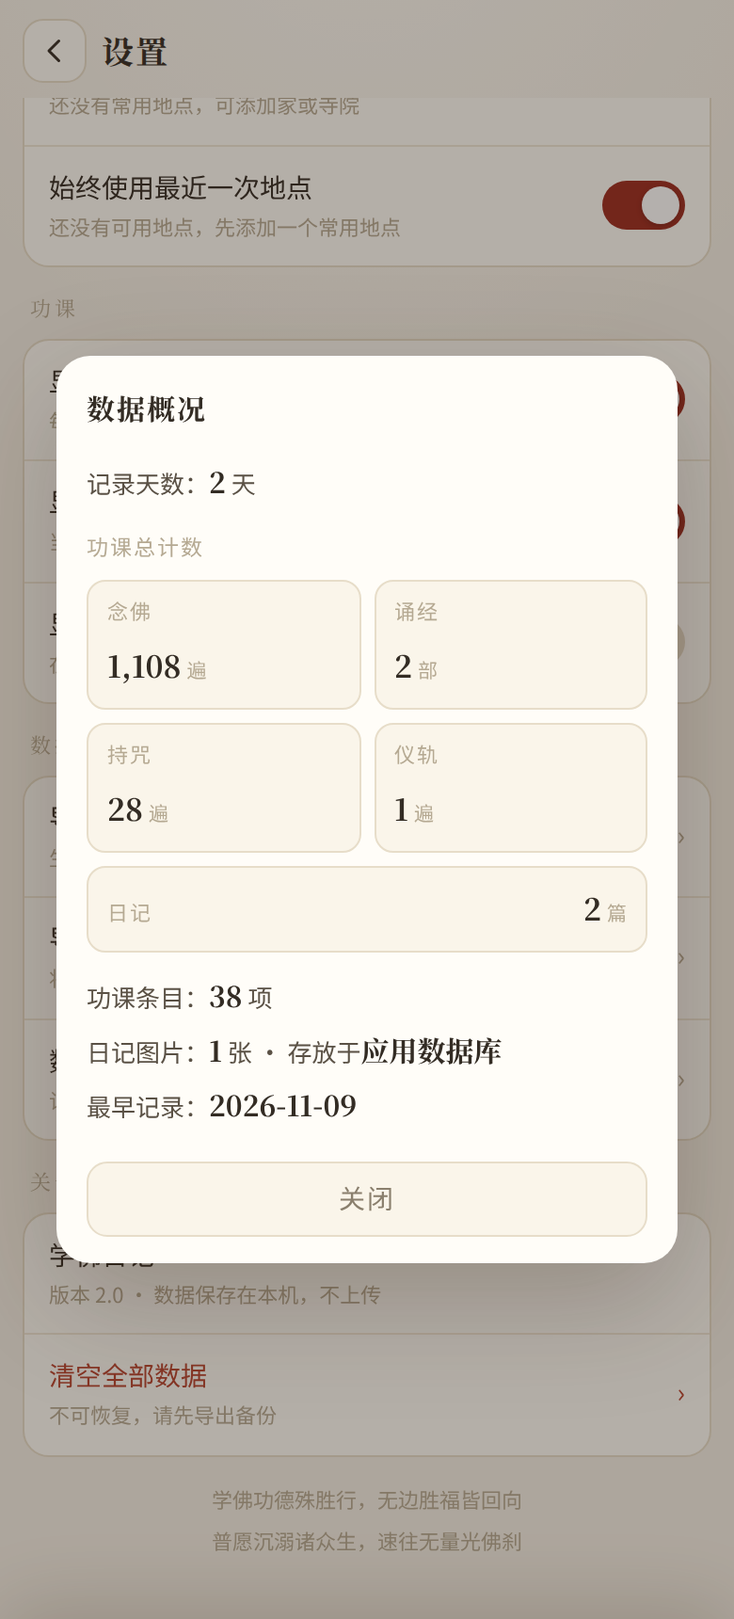
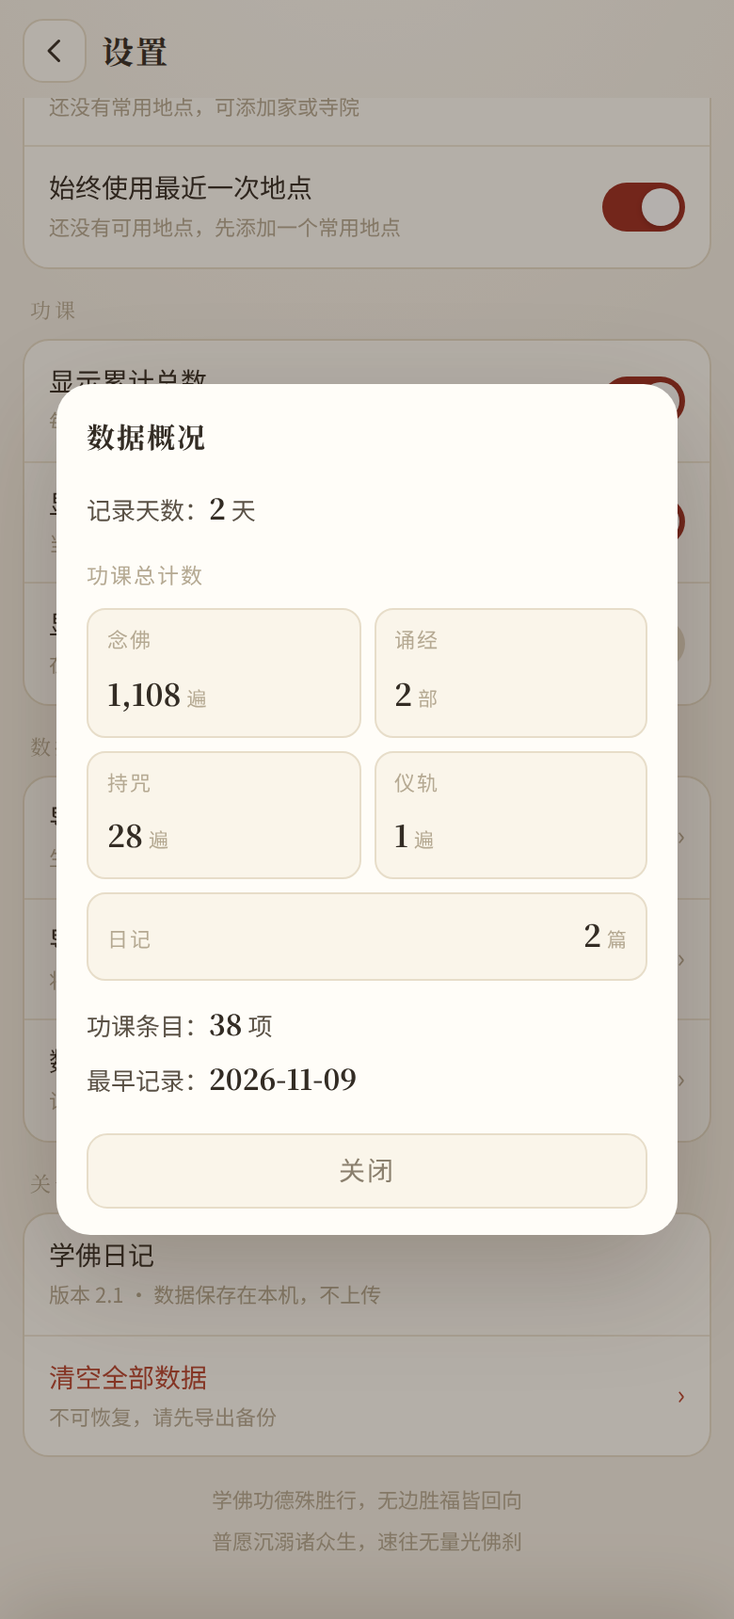
文档收尾：README 按 2.1 现状重写、新建 CHANGELOG、sw 缓存升到 v25 并加发布提示
- README 修正图例顺序、功课红点、日记占位等自相矛盾处，删除定位/反查地名说明
- README 补充：网页已零网络请求、零定位读取；但 2.0 APK 仍声明 INTERNET 与位置权限，需重新打包才能移除
- README 新增「发布检查清单」与 APK 签名前提说明
- 新建 CHANGELOG.md，把 1.14–1.22 历史变更从 README 移出
- sw.js 顶部加醒目提示：每次发布 index.html 必须递增 CACHE；CACHE 升到 v25
- 更新截图

diff --git a/sw.js b/sw.js
@@ -1,5 +1,8 @@
-/* 学佛日记 · 离线缓存 */
-var CACHE = 'xuefo-diary-v24';
+/* 学佛日记 · 离线缓存
+   ⚠ 发布须知：每次发布新的 index.html，必须把下面 CACHE 的版本号 +1
+   （例如 v25 → v26），否则老用户会一直读到缓存里的旧页面。
+   发布检查清单见 README 的「发布检查清单」一节。 */
+var CACHE = 'xuefo-diary-v25';
 var ASSETS = [
   './',
   './index.html',

diff --git a/README.md b/README.md
@@ -1,81 +1,80 @@
-# 学佛日记
+# 学佛日记 2.1
 
 一部记录每日念佛、诵经、持咒、仪轨与修行日记的手机应用。单文件网页应用（PWA），针对安卓手机竖屏优化，可「添加到主屏幕」当作原生 App 使用，离线可用。
+
+> 本版（2.1）把日记改成纯文本：不再支持插入图片与拍照；工具条改为「撤回 / 重做 / 无序列表 / 时间」。**应用已不再发出任何网络请求，也不读取定位。** 历史版本的改动见 [CHANGELOG.md](CHANGELOG.md)。
 
 ---
 
 ## 一、功能
 
 **首页**
-- 顶部为整月日历，同时显示公历与农历；**佛教节日以金色**、**二十四节气以绿色**标出（日期数字与名称同色），两者在日期下方各有一个小点
+- 顶部为整月日历，同时显示公历与农历。**佛教节日金色**、**斋日蓝色**、**传统节日黄色**、**二十四节气绿色**、**当天有功课红色**；日期下方的小点自上而下排列，顺序与图例一致
 - 月历标题里的**年份**与**月份**都可点开：年份给出前后各 12 年共 24 个，月份给出 12 个，点一下直接跳过去，不用逐月翻
-- **当天有做功课**：日期数字**右上角一个金色小点**；**佛教节日、斋日、节气、重要日**的小点则排在日期**正下方**一行，自左至右按这个次序排列，与图例一致
-- 标记颜色一眼可辨：**佛教节日 金**、**斋日 蓝**、**节气 绿**、**功课 金**、**重要日 红**；图例也按「佛教节日 → 斋日 → 节气 → 功课 → 重要日」的顺序排列
-- 斋日可在设置里单选一种显示：**不显示** / **朔望**（初一、十五）/ **六斋日** / **十斋日**，三种均为蓝色小点；小月无三十时，六斋以廿八、廿九补足，十斋再加廿七
+- 斋日可在设置里单选一种显示：**不显示** / **朔望**（初一、十五）/ **六斋日** / **十斋日**，均为蓝色小点；小月无三十时，六斋以廿八、廿九补足，十斋再加廿七
+- 另有**月斋（三长斋月）**独立开关：农历**正月、五月、九月整月持斋**，与上面单选的斋日**可叠加显示**（同一天会并排两个蓝点、日期条并排两个标签），默认关闭
 - 支持**自定义农历 / 公历的重要日**（生日、纪念日等），日历上以红点与红色名称标出，日期条显示红色标签
-- 选中日期下方的日信息分**三行**：第一行「佛历年份 · 公历年月日 · 昨天／今天／明天」，第二行「农历月日 · 星期」，第三行是当天的标签（佛教节日、斋日、传统节日、节气、重要日）
-- 当天的公历日期显示为**金色**，提醒这一天正是今天；其他日期为墨色，背景与平日一致
+- 选中日期下方的日信息分**三行**：第一行「佛历年份 · 公历年月日」，第二行「农历月日 · 星期 · 昨天／今天／明天」，第三行是当天的标签（佛教节日、斋日、传统节日、节气、重要日）
+- 当天的公历日期与「今天」二字都是**金色**；其他日期为墨色
 - 日期信息条左右两侧各有一个 `‹` `›` 箭头：点按即切换到前一天／后一天，与在日信息区左右滑动等效
-- 功课分为 **念佛 · 诵经 · 持咒 · 仪轨 · 日记** 五个标签页，内容可自行增删改
-- 每项功课提供 `+1` `+10` `+100` `+1000` `+` 五个按钮：末位 `+` 按该项的默认增量增加（默认：念佛持咒 100，诵经仪轨 1）；不再单设减号，减少统一走「长按 +」
-- 长按 `+` 弹出「调整当日数量」：可在**减少／增加／设为**之间切换——前两者填多少就加减多少（减到 0 为止，不会出现负数），**设为**则是直接把当天数量改成输入值（填 0 即清零）；长按 `+10` `+100` `+1000` 则是持续连加
+- **不在今天时**，第一行公历日期后会多出一个小按钮「回到今天」：在首页点它回到今天的记录页，在功课详情页点它则停在这项功课、切到今天的详情；点按钮不会误触日期选择器
+- 功课分为 **念佛 · 诵经 · 持咒 · 仪轨 · 日记** 五个标签页，内容可自行增删改。切到非当天时，标签页的文字与下划线仍用功课红，「＋」与 `+1` 等按钮改为米白
+- 每项功课提供 `+1` `+10` `+100` `+1000` `+` 五个按钮：末位 `+` 按该项的默认增量增加（默认：念佛持咒 100，诵经仪轨 1）；不单设减号，减少统一走「长按 +」
+- 长按 `+` 弹出「调整当日数量」：可在**减少／增加／设为**之间切换——前两者填多少就加减多少（减到 0 为止，不会出现负数），**设为**是直接把当天数量改成输入值（填 0 即清零）；长按 `+10` `+100` `+1000` 则是持续连加
 - 点击计数数字可直接手动输入当天数量
-- **点整张功课卡片**（名称、累计、目标条、空白处都算）即可进入该功课详情；只有 `+1` 等加减按钮与计数数字例外，它们照旧是计数操作
+- **只有卡片上半部分能点进详情**：标题、标题下的「本月 / 累计」、日目标进度条；点加减按钮、计数数字、卡片下半部分的空白都不会误跳
 - 「显示当月累计」与「显示累计总数」都默认开启：每项功课在今日数字下方显示一行「本月 N　共 M」，**当月合计在左、累计总数在右**，随加减实时更新；两项都可在设置里单独关掉
-- 前四个标签页的内容区顶部可选显示**当日计数明细**，一行列出今天记过的每一项，如「今日 南无阿弥陀佛×100；南无地藏王菩萨×1000。」，加减后即时刷新；默认关闭，可在设置里打开
-- 向下滚动时，**日期信息与五个标签页一起固定在顶部**（月历滚走），随时知道在看哪一天、可以随时换标签
-- 任意功课可在「功课设置」中填写**每日目标**（可选）：卡片上随即显示一条细进度条与「已完成 / 目标」，达成后数字与进度条转为金色
+- 前四个标签页的内容区顶部可选显示**当日计数明细**，一行列出今天记过的每一项，如「今日 南无阿弥陀佛×100；南无地藏王菩萨×1000。」；默认关闭，可在设置里打开
+- 向下滚动时，**日期信息与五个标签页一起固定在顶部**（月历滚走）
+- 任意功课可在「功课设置」中填写**每日目标**（可选）：卡片上显示一条细进度条与「已完成 / 目标」，达成后数字与进度条转为金色
 - 首页分三个区域，左右滑动各司其职：
   - **月历区**：右拖上一月，左拖下一月（不改选中日期）
   - **日信息区**：右拖前一天，左拖后一天
   - **内容区**：在五个标签页间左右切换；汇总视图下不响应左右滑动
-- 点日期即选中该日；点日期信息区域可调出系统日期选择器（不再显示提示文字）
+- 点日期即选中该日；点日期信息区域可调出系统日期选择器
+- **未来的日期只能看，不能记**：选到明天或更晚，加减按钮与「＋」全部置灰，点计数也不会弹窗；数据层同样会拒绝写入并提示「未来的日期还不能记录功课」。日历照常可以翻到未来查看节日与农历
 
 **详情页**
 - 点功课名称进入，自上而下三段：**日信息**（公历、星期、农历、佛历与当天标签）→ **当日计数与操作按钮** → **按日／按月／按年统计**
-- 计数区在今日数字下方并排显示**本月合计**与**累计总数**（本月在左、累计在右，如「本月 123 遍　累计 1234 遍」），随手加减时两者同步更新；在设置里关掉「显示当月累计」后只剩累计
+- 计数区显示**今日数 → 日进度条（右侧 n / 目标）→ 本月合计（左）／累计与总目标（右）**
+- 今日数字可点，直接改这一天的数量
 - 计数区上排是一个整行大按钮 `+1`，下排依次为 `+10` `+100` `+1000` `+`（`+` 按默认增量，长按弹窗可增减或直接设定当天总量；长按 `+10` 以上则连加）
 - 详情页的日信息卡片同样在左右两侧带 `‹` `›` 箭头，点按切换前后日
-- 三种统计表格：**按日**（一周 7 列的整月表格）／**按月**（12 个月的表格）／**按年**（最近 6 年，3 列 2 行）
-- 每格显示当日／当月／当年的累计数，底色按数量分三档加深；当前日期（月份、年份）带描边
-- 顶部显示合计、记录天数（月数、年数）、日均、最高值
-- 若该项设了每日目标：统计行显示「目标 X · 达标 N 天」，达标格的数字旁标一个金色 ✓
-- 点日期回到该日记录；点月份看该月每日；点年份看该年各月；按年视图可用 `‹` `›` 整屏翻 6 年
-- 详情页左右拖动：在**统计区**滑动切换 按日／按月／按年，在**日信息或计数区**滑动切换前后日的功课详情
+- 三种统计表格：**按日**（一周 7 列的整月表格）／**按月**（12 个月的表格）／**按年**（最近 6 年，3 列 2 行）；每格显示当日／当月／当年的累计数，底色按数量分三档加深
+- 顶部显示合计、记录天数（月数、年数）、日均、最高值；设了每日目标时还显示「目标 X · 达标 N 天」
+- 详情页左右拖动：在**统计区**滑动切换按日／按月／按年，在**日信息或计数区**滑动切换前后日的功课详情
+- 右上角有编辑按钮，可改这项功课的名称、单位、增量、日目标与总目标
 
-**日记**
-- 顶部可**选填天气**：中央台预报会播报的类型都在，常见天气排在前面——晴、多云、阴、小雨、中雨、大雨、暴雨、大暴雨、特大暴雨、阵雨、雷阵雨、小雪、中雪、大雪、暴雪、雨夹雪、冻雨、冰雹、雾、霾、浮尘、扬沙、沙尘暴、强沙尘暴、大风、台风、霜冻（三列图标，一屏选完）；也可以**自己写**（如「梅雨」「大风沙」，最多 8 字）；旁边是**地点**
-- 地点有三条路：**常用地点**一键选（家、寺院、常去的道场）、**按省 / 市挑**（34 个省、近 500 个市，不必看经纬度）、**输入临时地点**（如「灵隐寺」）；用「当前位置」时会自动反查地名，坐标只存在后台，不会写成「31.23, 121.47」这样的数字
-- 常用地点每一行右侧有**铅笔按钮**，在日记里点一下就能改名、改省市、设为默认或删除，不必先跳到管理页
-- 选省市时可勾选「加入常用地点」，也可在已有临时地点时点「存为常用地点」；常用地点在「设置 → 常用地点」或地点面板里都能改名、改省市、删除
-- 可指定一个常用地点为**默认地点**：今天及以后新的一天的日记会自动填好，手动清除后当天不再自动补；旧日期的日记不会被改写
-- 地点面板会把**最近一次用过的地点**单独列在最上面（当天已改成临时地点时尤其好用），点一下即可换回
-- 设置里「始终使用最近一次地点」**默认开启**：写新一天的日记时，地点自动填上次用过的那个；关掉后改用默认地点
-- 工具条为四个图标：序号、圆点、图片、**插入时间**（段落直接回车即可，不再单设按钮）
-- 图片按钮**轻点**从相册多选，**长按**调系统相机拍照（安卓 10 及以上拍完的照片同时留在相册，低版本只存进日记）
-- 空白段落提示「记下所见、所闻、所思、所想…」，一天里的见闻、思绪都可以写进来
-- 点时钟图标即新起一条带 `[21:09]` 时间戳的记录，可把一天里的事逐条记下；连点只刷新时间，不会叠加
-- 支持普通段落、自动编号的有序列表、无序号圆点列表、图片
-- 图片压缩后以 dataURL 文本存入 IndexedDB（不再用 Blob 与 `blob:` 地址，避免个别内核显示空白）；若某些机型上浏览器无法重新编码图片，则保留原图，绝不会存成空白图
-- 如果设备上的 IndexedDB 不能用、或写入的数据下次启动读不到（部分鸿蒙兼容层会清掉），会自动降级为**把图片直接内嵌进日记记录**，与文字一起保存，重启后照样显示；此时插图改用更小的压缩尺寸，为文字留出空间
-- 删除图片有三种方式：点图片**右上角的 ×**；点一下图片打开大图，再点**「删除这张图片」**；光标停在图片后的段落开头按**退格**（或选中图片按删除键）
-- 回车换行自动拆分块，退格可合并回上一块
+**日记（纯文本）**
+- 顶部可**选填天气**：常见天气排在前面，三列图标一屏选完，也可以自己写（如「梅雨」，最多 8 字）；旁边是**地点**
+- 地点有三条路：**常用地点**一键选、**按省 / 市挑**、**输入临时地点**。**应用不读取定位、也不联网反查地名**
+- 常用地点每一行右侧有铅笔按钮，可直接改名、改省市、设为默认或删除
+- 可指定一个常用地点为**默认地点**，设置里「始终使用最近一次地点」默认开启
+- **自动填地点只在必要时发生**：切到日记页不会凭空填；只有**当天**、且你**真的点进了日记正文**之后，才补上「最近一次地点」或「默认地点」。切到昨天／明天写日记不会自动填；手动清除地点后，当天也不再自动补
+- 工具条从左到右四个按钮：**撤回 · 重做 · 无序列表 · 时间**
+  - **撤回 / 重做**：按内容快照回退，一次连续输入算一步（停手 0.4 秒记一步），最多 50 步；插入时间、圆点、换行拆分、退格合并都可撤回；切换日期后历史清空（内容本身不受影响）
+  - **无序列表**：在光标所在行的行首插入「• 」（圆点 + 半角空格），再点一次则移除。圆点是**文本字符**，整段选中复制时会一起带走，粘到别处仍是列表
+  - **时间**：新起一条带 `[21:09]` 时间戳的记录，连点只刷新时间，不会叠加
+- 日记只保存文字：不再有插图、拍照，也没有图片相关的按钮与占位。旧版本留下的图片块不会再显示，导出备份时也不会带上
+- 回车换行自动拆分块，退格可合并回上一块；粘贴一律按纯文本插入，不会带进网页格式
+- 空段落不再显示「记下所见、所闻、所思、所想」之类的提示文字
 
 **汇总视图**
 - 首页右上第一个按钮切换：记录视图 ⇄ 汇总视图
-- 上半部分与记录视图完全一致：整月日历与日期条始终保留，只有下半部分的内容区在「五个标签页」与「按日滚动的汇总」之间切换
-- 汇总内容顶部显示**连续功课天数**（仅前四类功课有计数才算，只有日记不算；今天还没记时由昨天起算，不会提前断签），并附累计天数与起始日期
-- 汇总按日期由近及远排列，每张卡片头部附当天天气与地点，上方面板显示当天有计数的功课（如「南无阿弥陀佛×108；心经×1。」，最多 4 行），下方面板显示当天日记（最多 3 行，时间戳一并保留）
+- 上半部分与记录视图完全一致：整月日历与日期条始终保留，只有下半部分在「五个标签页」与「按日滚动的汇总」之间切换
+- 汇总内容顶部显示**连续功课天数**（仅前四类功课有计数才算），并附累计天数与起始日期
+- 汇总按日期由近及远排列；每张卡片头部附当天地点与天气（可在设置里一键隐藏），上方面板显示当天有计数的功课，下方面板显示当天日记（最多 3 行）
 - 在汇总视图里拖动日历翻月，会自动滚到该月最近的一条记录
 - 点卡片即切回五个标签页的模式并跳到那一天；点「功课」面板落在有记录的那一类，点「日记」面板落在日记页
 
 **其他**
 - 右上菜单：功课设置、佛教节日一览、传统节日一览、我的重要日、回到今天、设置
-- 节日一览分「佛教节日／传统节日」两个分段，可翻年查看；传统节日含春节、元宵、龙抬头、上巳、端午、七夕、中元、中秋、重阳、寒衣、下元、腊八、小年与除夕
-- 功课设置支持增删改、上下排序、恢复内置功课
+- 节日一览分「佛教节日／传统节日」两个分段，可翻年查看
+- 功课设置支持增删改、**置顶**、上移、下移、恢复内置功课；置顶只在本分类内生效
 - 我的重要日：添加／编辑／删除自定义重要日，可选农历或公历，列表按最近到来排序并显示还有多少天
-- 设置项：佛历基准（+543／+544）、斋日显示（不显示／朔望／六斋／十斋）、佛教节日显示、传统节日显示、节气显示、我的重要日、常用地点、始终使用最近一次地点（默认开启）、显示累计总数（默认开启）、显示当月累计（默认开启）、显示当日计数明细（默认关闭）
-- 数据导出／导入（JSON，含图片）、数据概况、清空数据；数据概况里「功课总计数」按 **念佛 / 诵经 / 持咒 / 仪轨 / 日记** 五类分别列出总数（念佛、持咒以遍计，诵经以部计，仪轨以遍计，日记以篇计），另附记录天数、功课条目、图片张数与最早记录
+- 设置项：佛历基准（+543／+544）、斋日显示、月斋（三长斋月）、佛教节日 / 传统节日 / 节气显示、总览是否显示地点与天气、我的重要日、常用地点、始终使用最近一次地点、显示累计总数、显示当月累计、显示当日计数明细
+- 数据导出／导入（JSON，纯文本）、数据概况、清空数据
+- 数据概况里「功课总计数」按 **念佛 / 诵经 / 持咒 / 仪轨 / 日记** 五类分别统计（念佛、持咒以遍计，诵经以部计，仪轨以遍计，日记以篇计），另附记录天数、功课条目与最早记录
 - 设置页底部为回向偈：「学佛功德殊胜行，无边胜福皆回向／普愿沉溺诸众生，速往无量光佛刹」
 
 ## 二、内置功课
@@ -87,25 +86,7 @@
 | 持咒 | 楞严咒、大悲咒、六字大明咒、准提咒、文殊菩萨心咒、往生咒、金刚萨埵百字明、绿度母心咒、药师灌顶真言、大白伞盖佛母心咒 |
 | 仪轨 | 八十八佛大忏悔文、地藏菩萨占察忏、放生（次）、施食（次） |
 
-1.15 起「文殊师利菩萨心咒」更名为「文殊菩萨心咒」，升级时自动改名，已记的数量不受影响。
-
-1.16 新增：常用地点（可设为默认，日记里一键选择，也能按省 / 市挑选或输入临时地点）与四个功课标签的当日合计。
-
-2.0 调整：① 主页面切到非当天时，五个标签页的文字与下划线仍用功课红（1.20 曾改成墨色，用起来不习惯，改回来），「＋」与「+1」按钮仍保持米白；② 设置页「数据概况」的「功课总计数」拆成念佛、诵经、持咒、仪轨、日记五类分别统计，带千分位；③ 设置页底部回向偈换成「学佛功德殊胜行，无边胜福皆回向／普愿沉溺诸众生，速往无量光佛刹」。旧数据不需要做任何处理。
-
-1.22 调整：① 主页面功课项里，日进度条移到「本月 …／总计 …」上面；② 功课详情页的今日遍数可点，点了就能像列表项一样直接改这一天的数量；③ 详情页计数卡改为「今日数 → 日进度条（右侧 n / 目标）→ 本月（左）／累计 / 总目标（右）」，去掉了单独的总目标进度条；④ 主页面、详情页、总览里当天的公历年月日改回金色，日信息里的「今天」也始终金色。旧数据不需要做任何处理。
-
-1.21 调整：① 总览模式下当天没写日记就不显示日记区，不再留「这天没有写日记」；② 功课详情页顶部日信息在当天时，公历年月日也用工课红；③ 统一高亮规则：主页面月历、详情页的日表、月表、年表统一为「今天 = 金底金框，选中 = 功课红实底白字」；④ 详情页统计分段改为「按年 / 按月 / 按日」从左到右，默认仍选中「按日」；⑤ 配色统一：日目标进度条一律功课红（达标为深红），总目标进度条为金色，非当天时「＋」与「+1」改为中性米白描边（不再用土棕），总览卡片当天日期改回功课红；⑥ 详情页周期回跳按钮「今」改为写明「本月 / 今年 / 近年」，节日一览同步改为「今年」；⑦ 日记正文去掉「记下所见、所闻、所思、所想」提示；⑧ 功课详情页右上角新增编辑按钮，弹窗可改名称 / 单位 / 增量 / 日目标 / 总目标，保存后就地刷新；⑨ 功课列表里日目标进度条移到「本月 / 总计」下方，本月靠左、总计靠右（不再用逗号连写）。旧数据不需要做任何处理。
-
-1.20 调整：① 主页面不在当天时，tab 选中色与「＋」按钮不再用功课红，改回墨色 / 米色；当天的公历日期由金色改为功课红；② 「昨/今/明天」只有「今天」用功课红，其余与农历、星期同色；③ 「佛历年」字号放大到与公历一致，并始终为金色；④ 功课标题字号加大（15→16.5px）；⑤ 功课详情页顶部日信息与首页完全一致，点一下可选日期，选完仍停在这项功课的详情页；⑥ 详情页统计区左右滑动改为「按日翻月 / 按月翻年 / 按年翻年段」，切换范围仍点上面的按日/按月/按年；⑦ 诵经新增「二十一尊度母礼赞经」（老档自动补入）；⑧ 功课可选填「总目标」，列表显示「总计 x / 总目标」，详情页有总目标进度条；⑨ 总览模式的地址移到天气左侧；⑩ 修复鸿蒙卓易通上长按图片按钮拍完照没有插入日记的问题：相机改为写入应用自己的文件（不再依赖相册 MediaStore 的 IS_PENDING），并兼容相机返回 RESULT_CANCELED、结果只放在 data 里等情况；万一拍照时页面被系统重建，回到应用会自动把刚拍的照片补进日记。旧数据不需要做任何处理。
-
-1.19 调整：① 日信息第一行改为靠左（佛历 + 公历），「昨/今/明天」移到第二行星期之后，第二行同样靠左；② 功课列表右侧的「本月」「总计」改为靠右对齐，中间用逗号分开；③ 功课详情页里点日期不再跳回首页，只把该页的日期切过去，方便补记过去某天这项功课；④ 详情页「+1」改为大按钮（随屏高 96–150px），配合长按连加，可直接当计数器 / 念珠用；⑤ 天气新增「晴转多云、多云转晴、中雨转小雨」等 32 种转换天气（共 59 种），选项区可上下滚动，标题与「自定义 / 不记录」常驻；⑥ 日记编辑面板左上角两个按钮顺序改为「位置」在左、「天气」在右；⑦ 过 24:00 或隔夜回到前台时，页面自动把「今天」推到新的一天（日历今天标记、日信息、汇总标签一起刷新），不再需要杀进程重开；⑧ 总览模式里当天的日期也改为金色；⑨ 总览模式功课区不再限制 4 行，日记缩略固定 3 行，图片用「[图片]」文字代替（连续图片合并一次）；⑩ 总览模式去掉「由近及远」四字。旧数据不需要做任何处理。
-
-1.18 调整：① 当天日信息恢复原底色，只把日期改为金色；② 天气补齐中央台会播报的 27 种（冰雹、沙尘暴、阵雨、暴雨、雨夹雪、冻雨、霾、浮尘、扬沙、台风、霜冻等，常见天气在前），改用图标网格选择；③ 地点面板增加「最近使用」，设置增加「始终使用最近一次地点」（默认开启）；④ 新增传统节日，显示顺序为佛教节日（金）、斋日（蓝）、传统节日（黄）、节气（绿）、重要日（红），日历与日信息一致；⑤ 首页与详情页日信息改为三行格式；⑥ 菜单可查看传统节日；⑦ 做了功课的日期改用红点；⑧ 日记提示改为「所见、所闻、所思、所想」；⑨ 长按图片按钮调系统相机。旧数据不需要做任何处理。
-
-1.17 调整：① 当天的日信息条改用暖色底，与其他日期一眼区分；② 持咒里「六字大明咒」提到「准提咒」前，仪轨里「放生」提到「施食」前（升级时自动换序一次，已记的数量不变）；③ 天气新增冰雹、沙尘暴，并可自定义；④ 四类功课的当日合计移到内容区顶部，改为「名称×数量；…。」的明细，默认关闭；⑤ 地点面板每一行可直接编辑，改名后已写下的日记同步换成新称呼。旧数据不需要做任何处理。
-
-升级到 1.14 后，新增的六项功课会自动追加到「念佛」「持咒」分类末尾；若删掉不想要的，不会在下次启动时自己回来，需要时可在「功课设置 → 恢复内置功课」手动补回。
+删掉的内置功课不会自己回来，需要时在「功课设置 → 恢复内置功课」手动补回。
 
 ## 三、在安卓手机上使用
 
@@ -118,31 +99,33 @@
 
 > 必须通过 http(s) 访问才能启用离线缓存与安装。直接双击 `index.html` 以 `file://` 打开也能使用全部功能，但无法安装和离线缓存。
 
-### 方式二：直接安装 APK（已打包好）
+### 方式二：直接安装 APK
 
 - 文件：`学佛日记-2.0.apk`，约 369 KB，支持 **Android 7.0 及以上**
+- ⚠ **这个 APK 内嵌的仍是 2.0 版页面**（还有图片功能），与当前仓库里的 `index.html`（2.1）不一致。本版只改网页，没有重新打包；要装到 2.1 需要先按下面的说明重新打包
 - 传到手机后点击安装，需允许「安装未知来源应用」；首次打开若提示风险，选择「仍要安装」即可
-- 内嵌的就是本目录这份 `index.html`，由 WebView 以 `https://appassets.local` 提供，因此 `localStorage` 与 IndexedDB 都能长期保存，重启应用数据不丢
+- 内嵌页面由 WebView 以 `https://appassets.local` 提供，`localStorage` 能长期保存，重启应用数据不丢
 - 返回键：在详情页、设置页等二级页面先退回上一层，回到首页再按一次才退出
-- 「导出备份」会直接把 JSON 写进手机「下载」目录（Android 10 及以上）；导入备份、日记插图会调起系统文件选择器
-- APK 申请了联网与位置权限：点「定位」时会弹出系统授权，同意后用 OpenStreetMap 反查地名；不授权也可手动填写地点
+- 「导出备份」会直接把 JSON 写进手机「下载」目录（Android 10 及以上）
 - APK 与浏览器版数据互不相通；卸载应用会一并清除数据，卸载前请先导出备份
-- 若从 1.9 及更早版本升级，早先在手机上添加的日记图片可能仍是空白（旧版在部分机型上把图导出成了白图）：删掉那张图重新添加即可，新版已修正
-- **鸿蒙（HarmonyOS NEXT）上的「卓易通」等安卓兼容环境**：1.13 起专门做了适配——图片不再依赖 Blob／`blob:` 地址，改为 dataURL 文本；选中的照片会先由外壳复制到应用缓存再交给网页；若该环境的 IndexedDB 存不住数据，会自动把图片内嵌进日记记录。**看日记图片不需要相册权限**（图片存在应用自己的数据里），只有在「点图片按钮挑照片」时才会调起系统选择器，那次选择本身就是一次性授权
 - 安装包为自签名（非应用商店分发），以后换新版本时直接覆盖安装即可，数据保留
 
-> 若要自己重新打包：可用 [PWABuilder](https://www.pwabuilder.com/)、Bubblewrap 或 Capacitor，把 `index.html`、`manifest.webmanifest`、`icons/` 作为静态资源即可。WebView 内 Service Worker 不生效属正常现象，不影响功能。
+**关于权限（如实说明）**：网页这一侧已经删掉了全部网络请求与定位调用，应用**实际行为上不联网、不读定位**；但现有 2.0 APK 的 `AndroidManifest.xml` 仍声明着 `INTERNET`、`ACCESS_FINE_LOCATION`、`ACCESS_COARSE_LOCATION` 与相册相关权限。这些声明要等补上外壳源码、重新打包才能删掉，**不能说成"权限已移除"**。
 
-## 四、数据说明
+**关于签名**：APK 里只有公钥证书 `META-INF/XUEFO.RSA`，签名的私钥不在仓库。将来若用新签名重新打包，无法覆盖安装到已装 2.0 的手机，必须先导出备份 → 卸载旧版 → 装新版 → 导入备份。
 
-- 功课、日记文字、天气与地点、目标数量、自定义重要日保存在浏览器 `localStorage`（键名 `xuefo.diary.v1`）
-- 日记图片保存在 IndexedDB（库名 `xuefo-img`，值为 dataURL 文本）；若该设备 IndexedDB 不可用或不持久，则直接内嵌在 `xuefo.diary.v1` 的日记记录里（`b.x` 字段）
-- 常用地点（名称、省市、可选经纬度）与默认地点也存在同一条数据里，随备份一起导出／导入
-- 省市列表内置在 `index.html` 中（34 个省级、近 500 个市级），选省市不需要联网
-- 反向地理编码（坐标 → 地名）使用 OpenStreetMap Nominatim 的公开接口；无网络或超时会保留「当前位置」，可再按省市选择或手动填写
-- 所有数据只在本机，不上传任何服务器；清除浏览器数据或卸载应用会一并清除
-- 自定义重要日随同一条数据保存，导出备份会一并带上；农历条目每年按农历月日重算，闰月不另计
-- 建议定期用「设置 → 导出备份」保存一份 JSON 到网盘
+> 若要自己重新打包：当前 APK 是**手写 WebView 外壳**（源码待补），与 [PWABuilder](https://www.pwabuilder.com/)、Bubblewrap、Capacitor 这类工具生成的容器不等价——那些工具只适用于纯浏览器 PWA 路线，做不出同样的文件保存、相机、返回键行为。仓库里也可以直接把 `index.html`、`manifest.webmanifest`、`icons/` 当静态资源自行打包。WebView 内 Service Worker 不生效属正常现象，不影响功能。
+
+## 四、数据与隐私
+
+- 功课、日记文字、天气与地点、目标数量、自定义重要日全部保存在浏览器 `localStorage`（键名 `xuefo.diary.v1`）
+- 省市列表内置在 `index.html` 中，选省市不需要联网
+- **应用不发起任何网络请求**：没有定位、没有地名反查、没有统计上报。代码里 `fetch(`、`navigator.geolocation`、Nominatim 均为 0 处
+- 旧版本可能存过图片（IndexedDB 库 `xuefo-img`，或日记记录里的 `b.x` 字段）。2.1 起不再读取、显示或导出这些图片，但**不会主动删除你本机已有的数据**
+- **数据读坏时的保护**：万一本机数据解析失败，应用会把原始字符串原样另存为 `xuefo.diary.broken.<时间戳>`，弹出提示，并**暂停写入**，避免新数据覆盖原件；此时可到「设置 → 导入备份」恢复，或到「设置 → 清空全部数据」重新开始
+- **导入的备份会先体检**：只接受结构正确的数据，计数会收口为非负整数、日记块只留文字、超长字段截断、未知字段丢弃；格式不对会明确提示「未导入任何数据」，不会导入半截
+- 「清空全部数据」会一并删掉所有 `xuefo.` 开头的本地键与旧图片库，不留残余
+- 建议定期用「设置 → 导出备份」保存一份 JSON 到网盘；卸载应用或清除浏览器数据会一并清除本机记录
 
 ## 五、历法口径
 
@@ -151,20 +134,33 @@
 - 朔望日：农历初一（朔）、十五（望）
 - 六斋日：农历初八、十四、十五、廿三、廿九、三十；**小月无三十，以廿八、廿九代之**，仍为六日
 - 十斋日：大月为初一、初八、十四、十五、十八、廿三、廿四、廿八、廿九、三十；小月无三十，则为初一、初八、十四、十五、十八、廿三、廿四、**廿七**、廿八、廿九，十日不缺
+- 月斋（三长斋月）：农历**正月、五月、九月**的每一天都算斋日；与单选的那一类斋日互不影响，可同时出现
 - 三者互斥，一次只在日历上标一类
 - 「有功课」只认前四类功课的计数；日记不参与日历标记与连续天数，但仍完整保留在汇总列表里
 - 闰月按当月实际天数计算，不另作增减
 - 佛教节日按农历月日计算，闰月不计。诸佛菩萨纪念日各寺所用历法略有出入，此表依通行之说；如需增改，编辑 `index.html` 中的 `FESTIVALS` 常量即可
 
-## 六、文件结构
+## 六、发布检查清单
+
+每次发布新的 `index.html`，逐条确认：
+
+- [ ] **`sw.js` 顶部的 `CACHE` 版本号已 +1**（如 `xuefo-diary-v25` → `v26`）。不改的话，老用户会一直读到缓存里的旧页面
+- [ ] `icons/` 里的三张图标与当前设计一致（192 / 512 / maskable-512）
+- [ ] 若重新打包 APK，确认 APK 内 `assets/index.html` 与工作区的 `index.html` **内容一致**（注意换行符：工作区文件是 LF，手工另存时别变成 CRLF）
+- [ ] 发版前自测：首页日历、五个标签页、日记撤回/重做/圆点、详情页统计、设置页开关、导出与导入各走一遍，确认不是白屏
+- [ ] 更新 `index.html` 里「设置 → 关于」的版本号，并在 `CHANGELOG.md` 记一笔
+- [ ] 导出一份备份做回归样本，导入后累计数应立即刷新
+
+## 七、文件结构
 
 ```
 xuefo-diary/
 ├── index.html            # 应用本体（HTML + CSS + JS + 农历库，全部内联）
 ├── manifest.webmanifest  # PWA 配置
-├── sw.js                 # 离线缓存
+├── sw.js                 # 离线缓存（版本号需随发布递增）
 ├── icons/                # 应用图标（192 / 512 / maskable）
-├── 学佛日记-2.0.apk       # 安卓安装包（WebView 外壳 + 内嵌页面）
+├── 学佛日记-2.0.apk       # 安卓安装包（2.0 外壳，内嵌旧版页面）
+├── CHANGELOG.md          # 历史版本改动
 └── README.md
 ```
 

diff --git a/CHANGELOG.md b/CHANGELOG.md
@@ -1,0 +1,140 @@
+# 变更记录
+
+按时间倒序。每条只记「改了什么」，当前功能以 README 为准。
+
+---
+
+## 2.1（2026-11-10）
+
+**日记改为纯文本**
+
+- 移除日记的图片功能：工具条上的图片按钮、轻点选图、长按拍照、图片大图预览、删除图片的三种方式全部去掉
+- 同时移除整套图片存储：IndexedDB 图片库、内嵌 dataURL 降级方案、压缩与画布探测、导出时把图片转回 dataURL 的逻辑
+- 历史日记里的图片块不再显示、不再计入「条数」，导出备份时也不带走；**本机已有数据不会被主动删除**
+- 工具条改为四个按钮，从左到右：**撤回 · 重做 · 无序列表 · 时间**
+  - 撤回 / 重做用内容快照实现（原生 contenteditable 撤销栈在重建 DOM 后会失效），一次连续输入算一步，最多 50 步，切换日期清空历史
+  - 无序列表改为在光标所在行的行首插入文本字符「• 」，再点一次移除；整段复制会带着圆点
+  - 去掉「序号」按钮；旧的序号／圆点块仍按原样显示，但回车新起的一段不再延续块类型
+
+**斋日：新增月斋（三长斋月）**
+
+- 设置 → 斋日 新增独立开关「月斋（三长斋月）」：农历**正月、五月、九月整月持斋**，默认关闭
+- 与原有「斋日显示」单选（不显示／朔望／六斋／十斋）**可叠加**：同一天既可标十斋日又标月斋，日历并排两个蓝点，日期条并排两个标签
+- 标记沿用斋日蓝，图例紧跟在斋日那一项后面
+- 日期表抽成文件顶部常量 `YUEZHAI_MONTHS = [1, 5, 9]`，日后要改月份直接改这一行
+- **观音斋尚未加入**：各寺传承不同、日期表口径未定，等用户给出具体农历日期表后再补（届时按同样方式做成可叠加的独立开关）
+
+**数据与安全**
+
+- 数据损坏时不再静默变成空 App：原始字符串另存为 `xuefo.diary.broken.<时间戳>`，弹窗说明并暂停写入，可用「导入备份」或「清空全部数据」恢复
+- 导入 / 清空 / 启动读档后刷新累计缓存，累计数立即正确
+- 「清空全部数据」连带清理所有 `xuefo.` 开头的本地键与旧图片库
+- 补齐各处 HTML 转义（地点名、功课 id、计数、佛历基准等），修掉把常用地点命名为 HTML 就能执行脚本的问题
+- 导入备份增加白名单校验：结构不对直接拒绝；计数收口为非负整数、日记块只留 `p/o/b`、图片块丢弃、长字段截断
+- 新增 `window.__closeTopLayer()`（给外壳的返回键用：先关弹窗、再关菜单、再退二级页面）。**当前 APK 外壳尚未调用它，接入后才生效**
+- 启动时读 `localStorage` 加了 try/catch，读失败不再中断后面的初始化
+
+**去联网与定位**
+
+- 删除「使用当前位置」、`navigator.geolocation` 调用与 OpenStreetMap 反查地名，不再写经纬度
+- 旧数据里的 `lat/lng`、`rec.geo` 只读保留，不显示、不外发
+
+**交互**
+
+- 功课卡片只有**上半部分**可点进详情：标题、本月/累计行、日目标进度条；按钮、计数、下半部分空白不再误触
+- 月历去掉「今」按钮；非当天时，日信息第一行公历日期后出现「回到今天」，首页与详情页分别落到正确位置，且不会误触日期选择器
+- 未来日期禁止记功课：按钮置灰、弹窗不打开、数据层拒绝写入并提示
+- 功课设置每行新增「置顶」，只在本分类内移到最前
+- 地点自动填充改为「仅当天 + 真的点进日记正文」才发生；只翻到日记页不会填，也不再污染「最近一次地点」
+- 设置新增「总览显示地点与天气」开关
+- `#app` 增加 `height:100vh` 回退，老 WebView 不认 `dvh` 时页面仍能滚动
+
+**文档**
+
+- README 按 2.1 现状重写，历史改动移入本文件；新增「发布检查清单」
+- `sw.js` 顶部注明：每次发布必须递增 `CACHE`
+
+---
+
+## 2.0（2026-11-10）
+
+- 主页面切到非当天时，五个标签页的文字与下划线仍用功课红（1.20 曾改成墨色，用起来不习惯，改回来），「＋」与 `+1` 按钮保持米白
+- 设置页「数据概况」的「功课总计数」拆成念佛、诵经、持咒、仪轨、日记五类分别统计，带千分位
+- 设置页底部回向偈换成「学佛功德殊胜行，无边胜福皆回向／普愿沉溺诸众生，速往无量光佛刹」
+
+## 1.22
+
+- 主页面功课项里，日进度条移到「本月 …／总计 …」上面
+- 功课详情页的今日遍数可点，点了就能直接改这一天的数量
+- 详情页计数卡改为「今日数 → 日进度条（右侧 n / 目标）→ 本月（左）／累计 / 总目标（右）」，去掉单独的总目标进度条
+- 主页面、详情页、总览里当天的公历年月日改回金色，日信息里的「今天」也始终金色
+
+## 1.21
+
+- 总览模式下当天没写日记就不显示日记区，不再留「这天没有写日记」
+- 功课详情页顶部日信息在当天时，公历年月日也用工课红
+- 统一高亮规则：主页面月历、详情页的日表、月表、年表统一为「今天 = 金底金框，选中 = 功课红实底白字」
+- 详情页统计分段改为「按年 / 按月 / 按日」从左到右，默认仍选中「按日」
+- 配色统一：日目标进度条一律功课红（达标为深红），总目标进度条为金色，非当天时「＋」与 `+1` 改为中性米白描边
+- 详情页周期回跳按钮「今」改为写明「本月 / 今年 / 近年」
+- 日记正文去掉「记下所见、所闻、所思、所想」提示
+- 功课详情页右上角新增编辑按钮，可改名称 / 单位 / 增量 / 日目标 / 总目标
+- 功课列表里日目标进度条移到「本月 / 总计」下方，本月靠左、总计靠右
+
+## 1.20
+
+- 主页面不在当天时，tab 选中色与「＋」按钮改回墨色 / 米色（2.0 又把 tab 文字改回功课红）
+- 「昨/今/明天」只有「今天」用功课红，其余与农历、星期同色
+- 「佛历年」字号放大到与公历一致，并始终为金色
+- 功课标题字号加大（15 → 16.5px）
+- 功课详情页顶部日信息与首页完全一致，点一下可选日期，选完仍停在这项功课的详情页
+- 详情页统计区左右滑动改为「按日翻月 / 按月翻年 / 按年翻年段」
+- 诵经新增「二十一尊度母礼赞经」（老档自动补入）
+- 功课可选填「总目标」，列表显示「总计 x / 总目标」
+- 总览模式的地址移到天气左侧
+- 修复鸿蒙卓易通上长按图片按钮拍完照没有插入日记的问题（2.1 起拍照功能整体移除）
+
+## 1.19
+
+- 日信息第一行改为靠左（佛历 + 公历），「昨/今/明天」移到第二行星期之后
+- 功课列表右侧的「本月」「总计」改为靠右对齐，中间用逗号分开
+- 详情页里点日期只切该页的日期，不跳回首页
+- 详情页「+1」改为大按钮，配合长按连加，可当计数器用
+- 天气新增「晴转多云」等 32 种转换天气（共 59 种），选项区可上下滚动
+- 日记编辑面板左上角两个按钮改为「位置」在左、「天气」在右
+- 过 24:00 或隔夜回到前台时，自动把「今天」推到新的一天
+- 总览模式里当天的日期也改为金色
+- 总览功课区不再限制 4 行，日记缩略固定 3 行，图片用「[图片]」文字代替（2.1 起不再有图片）
+- 总览模式去掉「由近及远」四字
+
+## 1.18
+
+- 当天日信息恢复原底色，只把日期改为金色
+- 天气补齐中央台会播报的 27 种，改用图标网格选择
+- 地点面板增加「最近使用」，设置增加「始终使用最近一次地点」（默认开启）
+- 新增传统节日，显示顺序为佛教节日（金）、斋日（蓝）、传统节日（黄）、节气（绿）、重要日（红）
+- 首页与详情页日信息改为三行格式
+- 菜单可查看传统节日
+- 做了功课的日期改用红点
+- 长按图片按钮调系统相机（2.1 起移除）
+
+## 1.17
+
+- 当天的日信息条改用暖色底
+- 持咒里「六字大明咒」提到「准提咒」前，仪轨里「放生」提到「施食」前（升级时自动换序一次）
+- 天气新增冰雹、沙尘暴，并可自定义
+- 四类功课的当日合计移到内容区顶部，改为「名称×数量；…。」的明细，默认关闭
+- 地点面板每一行可直接编辑，改名后已写下的日记同步换成新称呼
+
+## 1.16
+
+- 新增常用地点（可设为默认，日记里一键选择，也能按省 / 市挑选或输入临时地点）
+- 四个功课标签新增当日合计
+
+## 1.15
+
+- 「文殊师利菩萨心咒」更名为「文殊菩萨心咒」，升级时自动改名，已记的数量不受影响
+
+## 1.14 及更早
+
+- 新增六项内置功课（自动追加到「念佛」「持咒」分类末尾）；删掉后不会自己回来，可在「功课设置 → 恢复内置功课」手动补回
